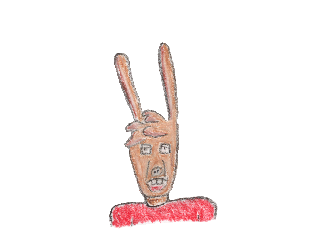
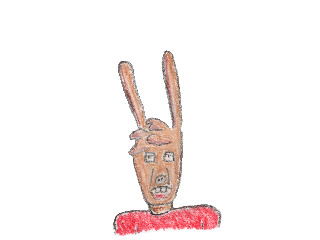
update selection images

Changed region(s): [[0.3438, 0.175, 0.7188, 0.9917]]

diff --git a/src/menu/menu.cpp b/src/menu/menu.cpp
@@ -6,7 +6,8 @@ void Menu::mainMenu() {
     _sound.switchSoundByTuneId(MENU, 0);
     auto textParams = (rdpq_textparms_t){
         .width = 320,
-        .align = ALIGN_CENTER
+        .align = ALIGN_CENTER,
+        .char_spacing = 2
     };
     rdpq_text_print(&textParams, 3, 0, 65, "Somewhere to Escape");
     rdpq_text_print(&textParams, 3, 0, 80, "by");
@@ -22,7 +23,7 @@ void Menu::selectCharacter() {
     disp = display_get();
     _sound.switchSoundByTuneId(SELECTION, 0);
     graphics_fill_screen(disp, graphics_convert_color(RGBA32(100, 0, 200, 0)));
-    graphics_draw_sprite_trans(disp, 0, 0, ramHead);
+    graphics_draw_sprite_trans(disp, 0, 0, squirHead);
     graphics_draw_text(disp, 160, 60, "Ram");
     display_show(disp);
 }

diff --git a/src/menu/menu.hpp b/src/menu/menu.hpp
@@ -12,5 +12,5 @@ class Menu {
         Sound& _sound;
         sprite_t *ramHead = sprite_load("rom://select-ram.sprite");
         sprite_t *bunnyHead = sprite_load("rom://select-bunny.sprite");
-        sprite_t *squirHead = sprite_load("rom://select-ram.sprite");
+        sprite_t *squirHead = sprite_load("rom://select-squir.sprite");
 };
